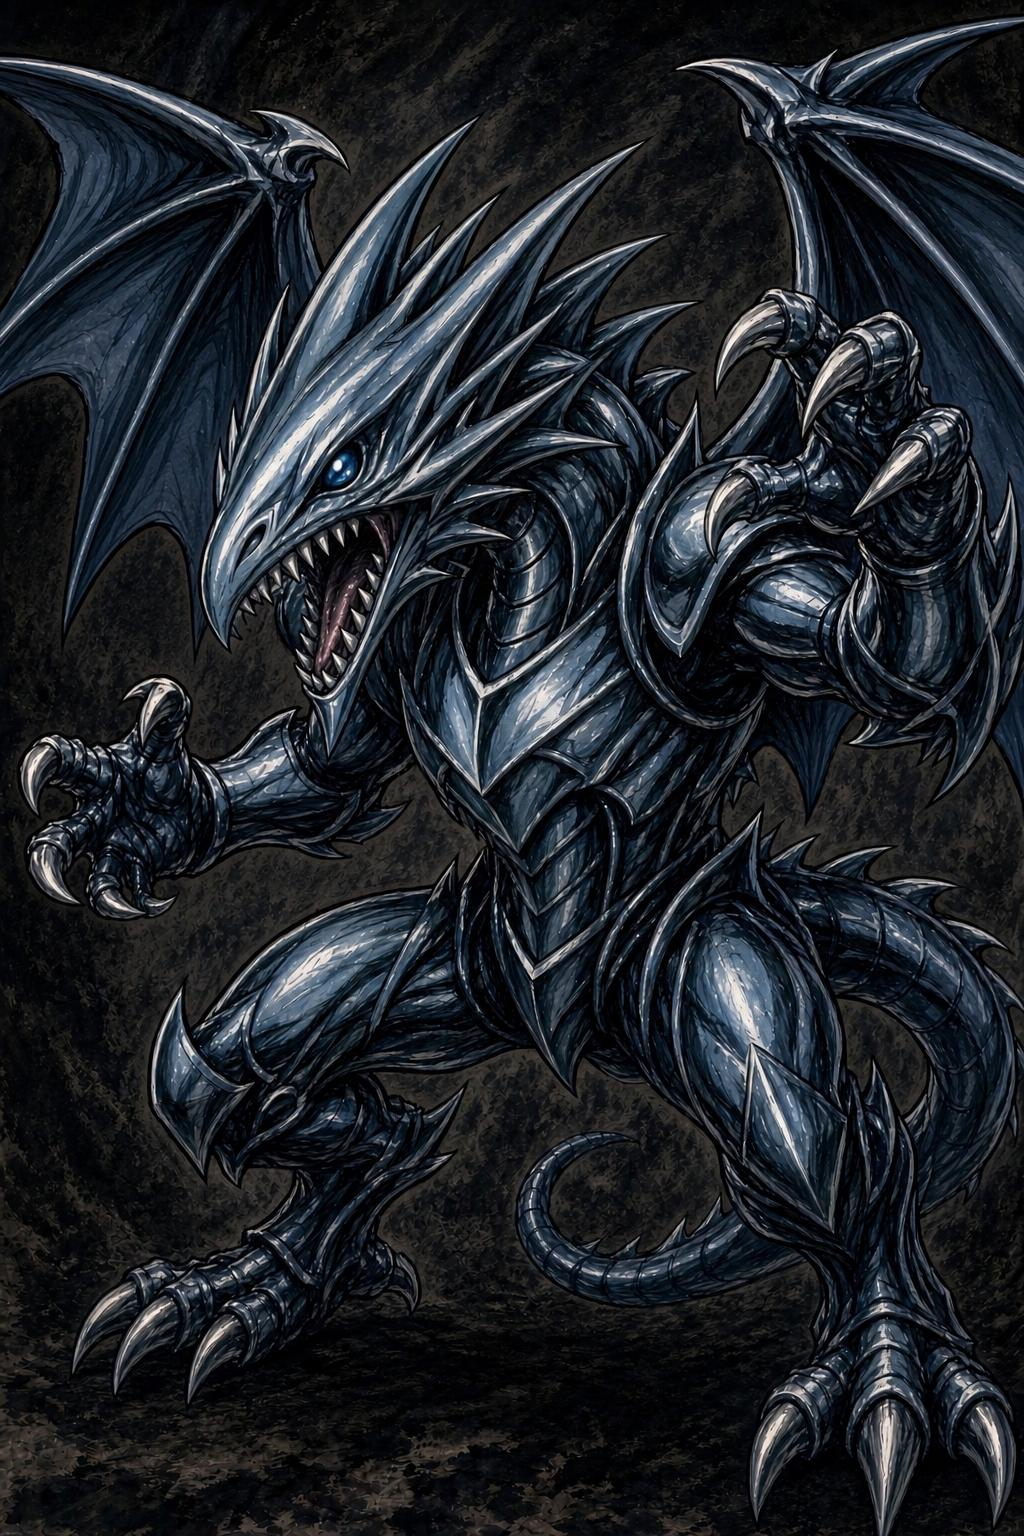
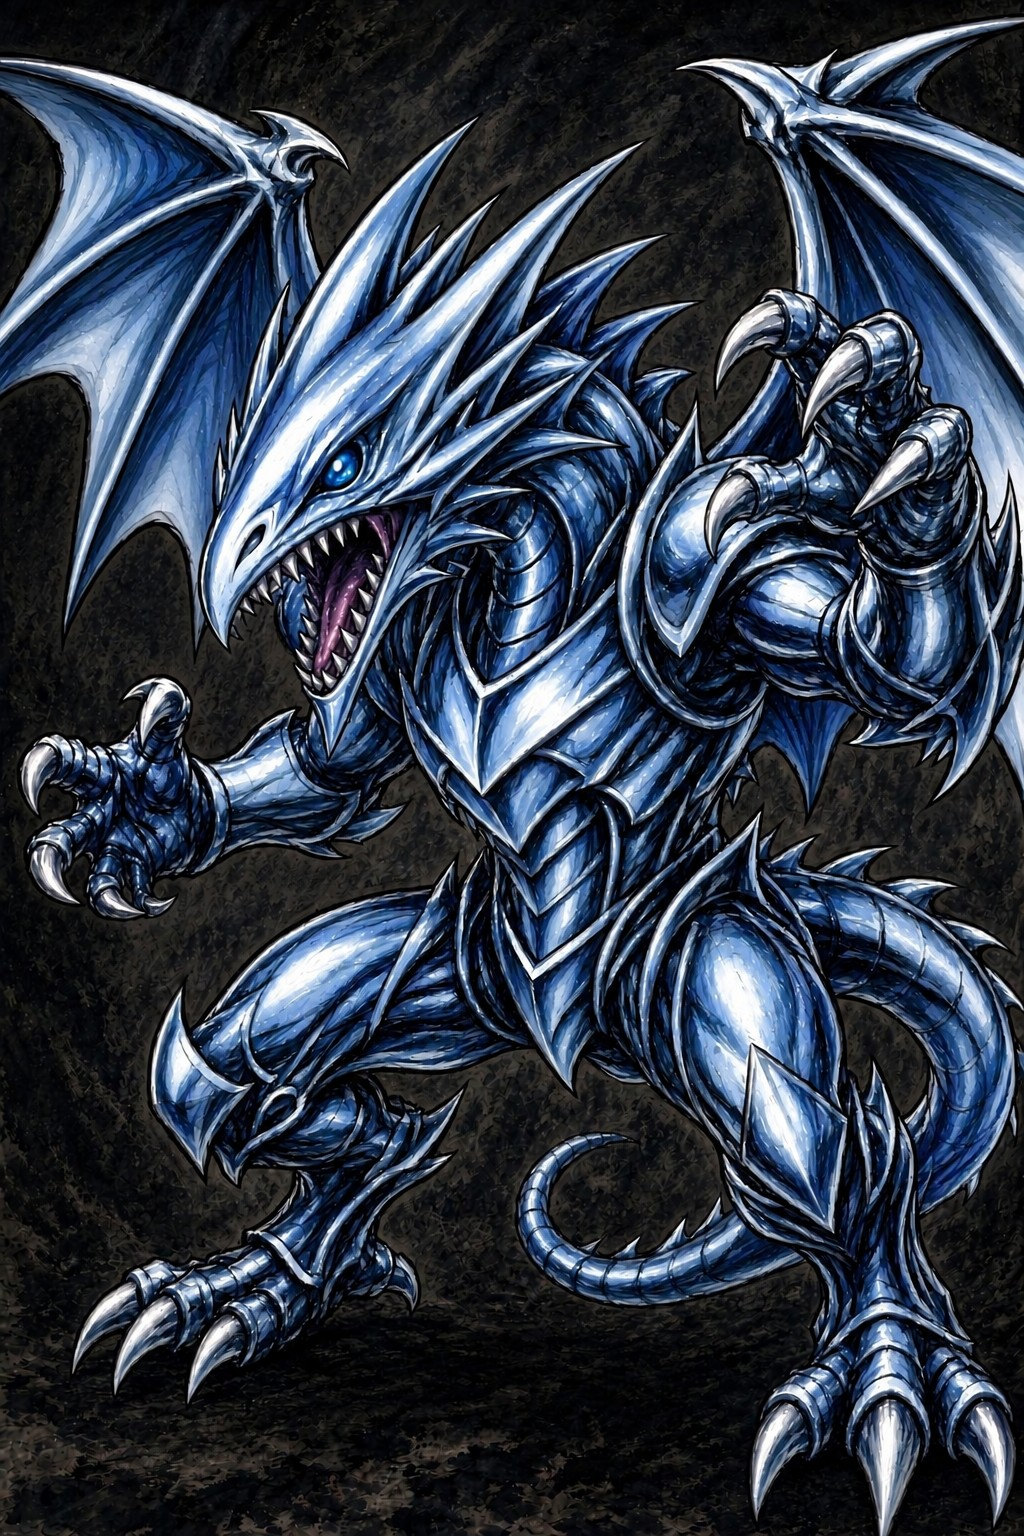
Đổi hình lá Mắt xanh huỷ diệt
Claude-Session: https://claude.ai/code/session_01XgSG6ZHpn2vMFo1N6yb51c

diff --git a/src/lib/updates.ts b/src/lib/updates.ts
@@ -894,6 +894,7 @@ export const PENDING_NOTES: string[] = [
   "Phép chậm đổi khung sang đỏ thuần. Phép siêu tốc và giải trừ (Hấp thụ ma pháp, Vòng xoáy bảo hộ, Mưa ma thuật) dùng khung trắng bạc.",
   "Skill chậm (Lão hoá, Dòng chảy thời gian, Nguyền rủa của Mộ voi ma mút, Thổi bay, Mê hoặc, Dụ dỗ, Gió xoáy) có viền icon đỏ trên bảng quái.",
   "Skill nguy hiểm (Hiến Tế, Hoá Kén…) đổi viền sang cam đất để khác đỏ của skill chậm.",
+  "Đổi hình nền lá Mắt xanh huỷ diệt.",
 ];
 
 function remarkOf(notes: string[]) {

diff --git a/TIEP-TUC.md b/TIEP-TUC.md
@@ -665,3 +665,4 @@ Chủ game trả lời (29/10), CHƯA LÀM gì, chờ "ok" và trả lời câu 
 - KHUNG CHẬM ĐỎ CAM + KHUNG TRẮNG GIẢI TRỪ 03/11 (chủ game chọn khung đỏ 1, gửi khung trắng; Sonnet low; nhánh `ccr-35f3cdfd-q9c3rl`, CHƯA áp `main`): `spell-frame-slow(.-nogem).png` ĐỎ THUẦN (chủ game 03/11 đổi sang khung đỏ rực, viên mana đỏ giữ nguyên, còn 2 vệt nối mờ ở cạnh trái/phải chưa làm mờ), `spell-frame-super(.-nogem).png` trắng bạc (thay khung xanh dương, còn trong git), cả 4 cắt sát theo pixel sáng. `SPEEDS` (spell-kinds.ts): Hấp thụ ma pháp, Vòng xoáy bảo hộ, Mưa ma thuật chuyển sang super (giải trừ = siêu tốc, cách a); Phản nguyền GIỮ chậm (chưa hỏi chủ game). Màu flow trắng `#E9F3FF` (vành icon `#C9D6EA`), flow hồng `#FF4FA6`. Chụp 412x915.
 - VIỀN SKILL CHẬM ĐỎ 03/11 (chủ game: "làm thử skill chậm trước, ổn thì làm icon khác"; Sonnet medium; nhánh `ccr-35f3cdfd-q9c3rl`, CHƯA áp `main`): `SkillEntry.slow` (skill-book.ts, hàm `slow()`) gắn cho Lão hoá, Dòng chảy thời gian (Phù thuỷ thời gian), Nguyền rủa (Mộ voi ma mút), Thổi bay, Mê hoặc, Dụ dỗ x2, Gió xoáy; monster-sheet.tsx `Rim kind="slow"` + gradient `rim3d-slow` đỏ kim loại, `.sk3d.is-slow` (styles.css). Cường hoá Lão Hoá vẫn tím (là nội tại), chưa hỏi chủ game. Thanh nối chuỗi (`RIM_TONE`) và tiêu đề mô tả chưa đổi. Skill nguy hiểm vẫn đỏ cam, chưa chốt đổi. Chụp 412x915 `v4/sheet.mjs`.
 - VIỀN SKILL NGUY HIỂM CAM ĐẤT 03/11 (chủ game duyệt cam đề xuất `#E36C1C`: tươi, không sáng, vẫn nổi; Sonnet low; nhánh `ccr-35f3cdfd-q9c3rl`, CHƯA áp `main`): gradient `rim3d-risk`, `RIM_TONE.risk`, `--ring` của `.sk3d/.unit-act/.rx-gem/.hand-use.is-risk` đổi sang cam; tiêu đề mô tả skill chậm có lớp `.is-slow` (đỏ), skill nguy hiểm tiêu đề cam. Nút Hiến tế dạng viên pha lê (`CRYSTAL.red`) chưa đổi. Chụp 412x915 `v4/sheet.mjs` (Kỵ sĩ bóng tối: Hiến Tế cam; Mộ voi ma mút: Nguyền rủa đỏ).
+- HÌNH LÁ MẮT XANH HUỶ DIỆT 03/11 (chủ game gửi ảnh rồng mắt xanh 1024x1536; Sonnet low; nhánh `ccr-35f3cdfd-q9c3rl`): thay `public/art/mat-xanh-huy-diet.jpg` (bản cũ trong git). Chưa chụp trên lá trong game.
